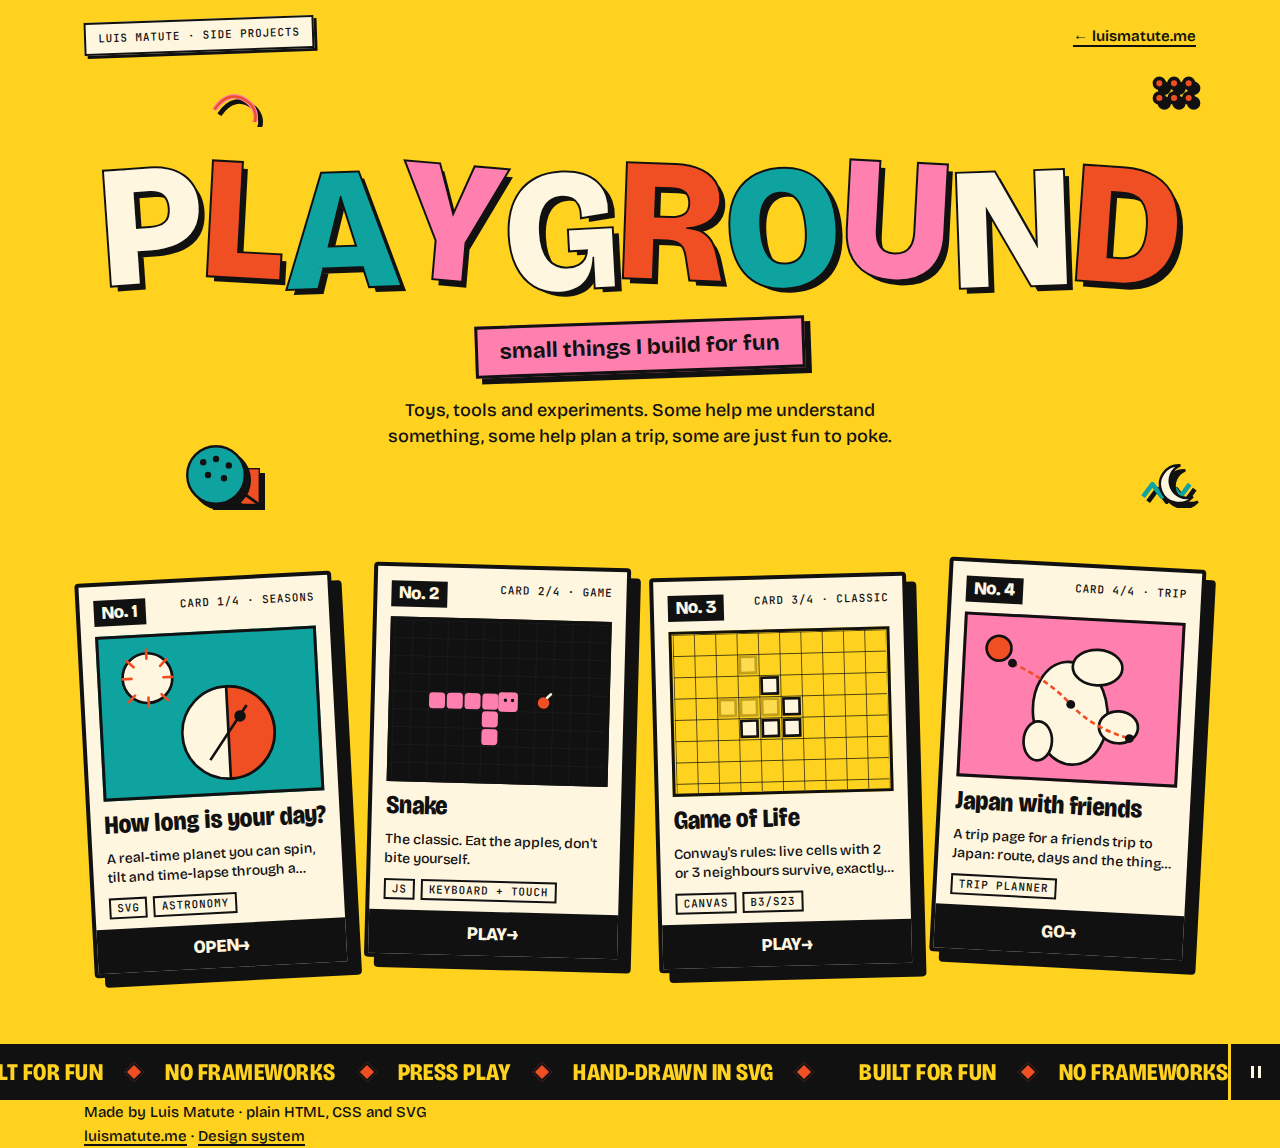
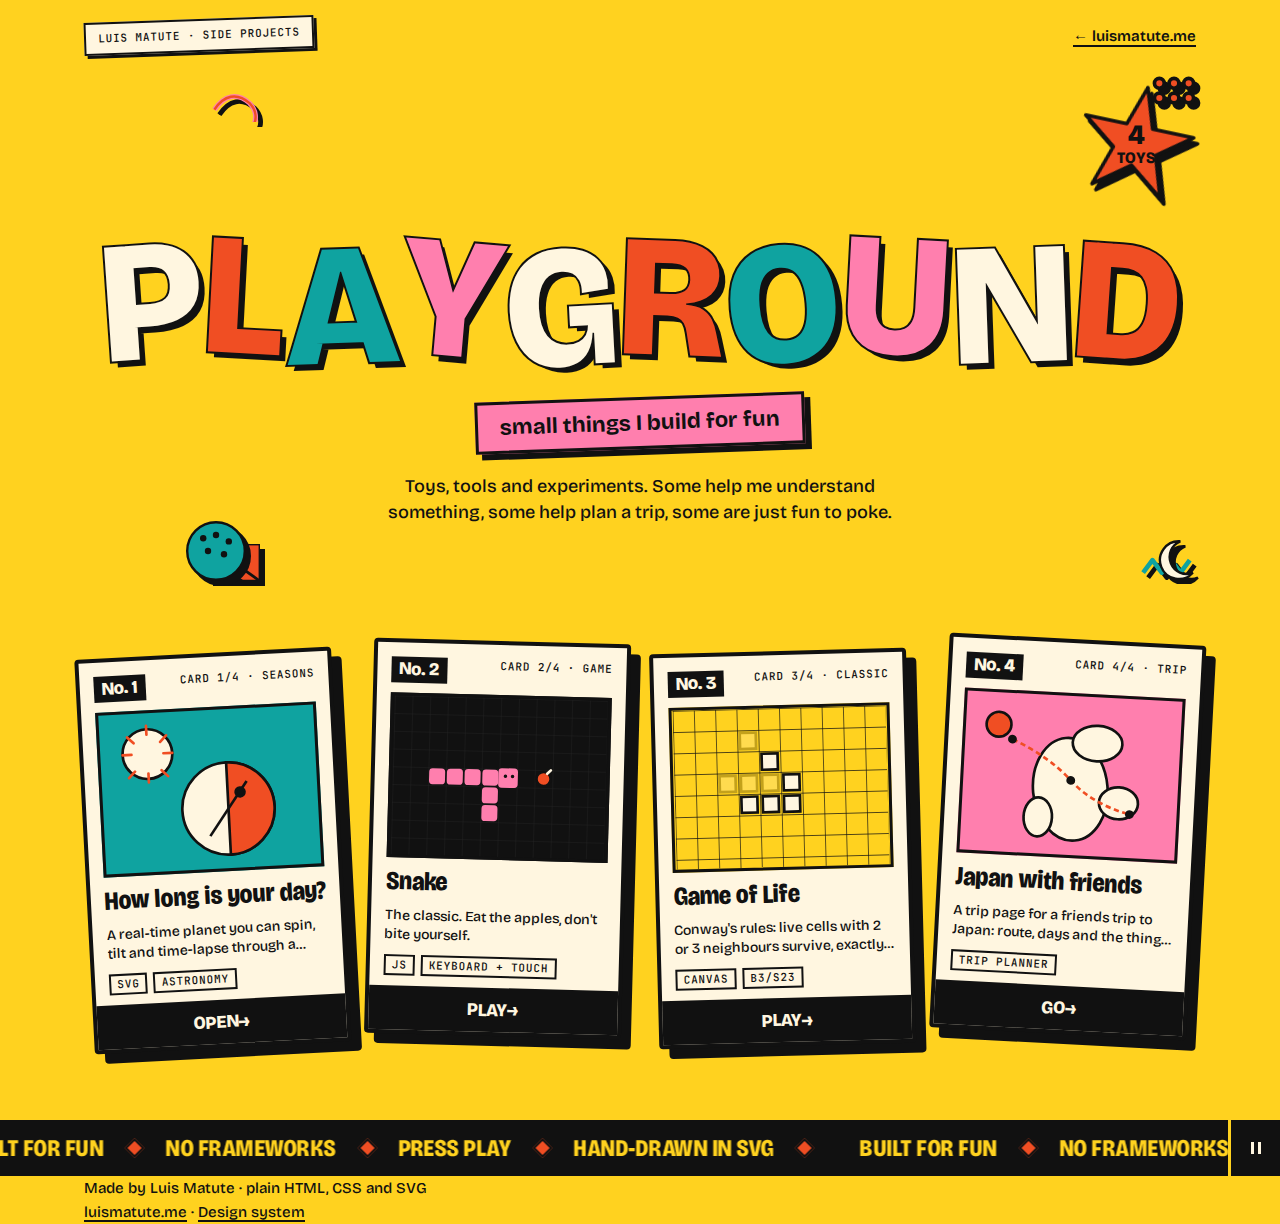
fix(playground): CSS-only starburst badge and badge QA asserts

Changed region(s): [[0.0, 0.3659, 1.0, 1.0], [0.0625, 0.0305, 0.9375, 0.4268], [0.0625, 0.0, 0.25, 0.122]]

diff --git a/playground/index.html b/playground/index.html
@@ -46,19 +46,22 @@ body.ready .title span:nth-child(1){transform:rotate(-4deg) translateY(0)}body.r
 .ribbon{display:inline-block;background:var(--pink);border:var(--line) solid var(--ink);box-shadow:var(--shadow);transform:rotate(-2deg);padding:10px 22px;font:700 22px/1.2 var(--text)}
 .hero-narrow{position:relative;z-index:2;max-width:720px;margin:0 auto;padding-inline:8px}
 .lede{max-width:46ch;margin:24px auto 0;font-size:18px}
-@media(min-width:641px){.hero{padding-top:80px}}
-@media(max-width:640px){.hero{padding-top:56px;padding-bottom:100px}.lede{padding-inline:12px;max-width:38ch}}
-.ribbon-row{position:relative;display:inline-flex;align-items:center;justify-content:center;gap:4px;max-width:100%;margin-top:20px;flex-wrap:nowrap}
+@media(min-width:641px){.hero{padding-top:132px}}
+@media(min-width:641px) and (max-width:1279px){.hero{padding-top:142px}}
+@media(min-width:1280px){.hero{padding-top:156px}}
+@media(max-width:640px){.hero{padding-top:48px;padding-bottom:100px}.lede{padding-inline:12px;max-width:38ch}}
+.ribbon-row{display:inline-flex;align-items:center;justify-content:center;gap:0;max-width:calc(100% - 16px);margin-top:20px;flex-wrap:nowrap}
 .ribbon{margin:0;flex:0 1 auto}
-@media(max-width:640px){.ribbon-row{align-items:flex-start}.badge-star{position:relative;top:auto!important;left:auto!important;right:auto!important;transform:rotate(12deg);margin:-6px -10px 0 0;flex-shrink:0}}
-@media(min-width:641px){.ribbon-row{display:block;position:static}}
-.badge-star{position:absolute;width:100px;height:100px;transform:rotate(12deg);filter:drop-shadow(5px 5px 0 #111);z-index:4;pointer-events:none}
+.badge-star{position:relative;transform:rotate(12deg);filter:drop-shadow(5px 5px 0 #111);z-index:4;pointer-events:none;flex-shrink:0}
 .badge-star svg{display:block;width:100%;height:100%}
 .badge-star-label{position:absolute;inset:0;display:flex;flex-direction:column;align-items:center;justify-content:center;font-family:var(--display);font-weight:800;color:var(--ink);line-height:1.05;text-align:center;transform:rotate(-12deg)}
-.badge-star-label span:first-child{font-size:26px}
-.badge-star-label span:last-child{font-size:15px;letter-spacing:.04em}
-.badge-star-label{-webkit-text-stroke:0}
-@media(max-width:640px){.badge-star{width:64px;height:64px}.badge-star-label span:first-child{font-size:20px}.badge-star-label span:last-child{font-size:11px;letter-spacing:.06em}}
+.badge-star-label span:first-child{font-size:24px}
+.badge-star-label span:last-child{font-size:14px;letter-spacing:.04em}
+.badge-star--hero{display:none;position:absolute;top:12px;right:max(var(--gutter),calc(50% - 600px));width:96px;height:96px;filter:none}
+.badge-star--hero svg{filter:drop-shadow(5px 5px 0 #111)}
+@media(min-width:641px){.badge-star--hero{display:block}.badge-star--ribbon{display:none!important}}
+@media(min-width:1280px){.badge-star--hero{width:120px;height:120px}.badge-star--hero .badge-star-label span:first-child{font-size:28px}.badge-star--hero .badge-star-label span:last-child{font-size:16px}}
+@media(max-width:640px){.badge-star--ribbon{display:block;position:relative;width:72px;height:72px;margin-left:-24px;margin-top:-2px}.badge-star--ribbon .badge-star-label span:first-child{font-size:22px}.badge-star--ribbon .badge-star-label span:last-child{font-size:12px;letter-spacing:.06em}.ribbon{font-size:clamp(15px,4.1vw,18px);padding:8px 32px 8px 14px}}
 .stickers{pointer-events:none;position:absolute;inset:0;z-index:1;overflow:visible}
 .stk{position:absolute;filter:drop-shadow(5px 5px 0 #111)}
 .stk-sq{left:max(4px,var(--gutter));top:12px;width:64px}
@@ -160,9 +163,10 @@ body:not(.ready) .title span,body:not(.ready) .toy-card{opacity:1}
 <svg class="stk stk-polka" viewBox="0 0 80 80" aria-hidden="true"><circle cx="40" cy="40" r="36" fill="var(--teal)" stroke="var(--ink)" stroke-width="3"/><g fill="var(--ink)"><circle cx="24" cy="24" r="4"/><circle cx="40" cy="20" r="4"/><circle cx="56" cy="28" r="4"/><circle cx="30" cy="40" r="4"/><circle cx="50" cy="44" r="4"/></g></svg>
 <svg class="stk stk-moon" viewBox="0 0 56 56" aria-hidden="true"><path d="M36 8a24 24 0 1 0 16 40A20 20 0 0 1 36 8z" fill="var(--cream)" stroke="var(--ink)" stroke-width="3"/></svg>
 </div>
+<div class="badge-star badge-star--hero" aria-hidden="true"><svg viewBox="0 0 100 100" aria-hidden="true"><polygon points="50,2 61,35 96,35 68,56 79,90 50,68 21,90 32,56 4,35 39,35" fill="#f04e23" stroke="#111" stroke-width="3" stroke-linejoin="round"/></svg><div class="badge-star-label"><span>4</span><span>TOYS</span></div></div>
 <h1 class="title" aria-label="Playground"><span class="c0" aria-hidden="true">P</span><span class="c1" aria-hidden="true">L</span><span class="c2" aria-hidden="true">A</span><span class="c3" aria-hidden="true">Y</span><span class="title-break" aria-hidden="true"></span><span class="c0" aria-hidden="true">G</span><span class="c1" aria-hidden="true">R</span><span class="c2" aria-hidden="true">O</span><span class="c3" aria-hidden="true">U</span><span class="c0" aria-hidden="true">N</span><span class="c1" aria-hidden="true">D</span></h1>
 <div class="hero-narrow">
-<div class="ribbon-row"><p class="ribbon">small things I build for fun</p><div class="badge-star" aria-hidden="true"><svg viewBox="0 0 100 100" aria-hidden="true"><polygon points="50,2 61,35 96,35 68,56 79,90 50,68 21,90 32,56 4,35 39,35" fill="#f04e23" stroke="#111" stroke-width="3" stroke-linejoin="round"/></svg><div class="badge-star-label"><span>4</span><span>TOYS</span></div></div></div>
+<div class="ribbon-row"><p class="ribbon">small things I build for fun</p><div class="badge-star badge-star--ribbon" aria-hidden="true"><svg viewBox="0 0 100 100" aria-hidden="true"><polygon points="50,2 61,35 96,35 68,56 79,90 50,68 21,90 32,56 4,35 39,35" fill="#f04e23" stroke="#111" stroke-width="3" stroke-linejoin="round"/></svg><div class="badge-star-label"><span>4</span><span>TOYS</span></div></div></div>
 <p class="lede">Toys, tools and experiments. Some help me understand something, some help plan a trip, some are just fun to poke.</p>
 </div>
 </header>
@@ -224,10 +228,8 @@ var mq=document.getElementById('marquee'),btn=document.getElementById('marqueeBt
 btn.addEventListener('click',function(){var p=mq.classList.toggle('is-paused');btn.setAttribute('aria-pressed',p?'true':'false');btn.setAttribute('aria-label',p?'Play marquee':'Pause marquee');btn.innerHTML=p?'<svg width="14" height="14" viewBox="0 0 14 14" aria-hidden="true"><polygon points="3,1 12,7 3,13" fill="var(--cream)"/></svg>':'<svg width="14" height="14" viewBox="0 0 14 14" aria-hidden="true"><rect x="2" y="1" width="3" height="12" fill="var(--cream)"/><rect x="9" y="1" width="3" height="12" fill="var(--cream)"/></svg>'});
 var track=document.querySelector('.marquee-track');
 if(track&&!window.matchMedia('(prefers-reduced-motion: reduce)').matches){var half=track.scrollWidth/2;track.style.animationDuration=(half/40)+'s'}
-var badge=document.querySelector('.badge-star'),ribbon=document.querySelector('.ribbon'),hero=document.querySelector('.hero');
-function syncBadge(){if(!badge||!hero||window.matchMedia('(max-width:640px)').matches){badge.style.removeProperty('top');badge.style.removeProperty('left');return}var title=document.querySelector('.title'),topbar=document.querySelector('.topbar');if(!title)return;function hit(a,b){return!(a.right<=b.left||a.left>=b.right||a.bottom<=b.top||a.top>=b.bottom)}var letters=[].slice.call(document.querySelectorAll('.title span:not(.title-break)')),hb=hero.getBoundingClientRect(),size=window.matchMedia('(min-width:760px)').matches?88:72;badge.style.width=badge.style.height=size+'px';badge.style.position='absolute';var minLt=Math.min.apply(null,letters.map(function(el){return el.getBoundingClientRect().top})),maxRt=Math.max.apply(null,letters.map(function(el){return el.getBoundingClientRect().right})),top=minLt-hb.top-size-20,left=maxRt-hb.left+22;badge.style.right='auto';for(var i=0;i<24;i++){badge.style.top=Math.max(8,top)+'px';badge.style.left=Math.min(left,hb.width-size-4)+'px';var bad=badge.getBoundingClientRect(),coll=false;letters.forEach(function(el){if(hit(bad,el.getBoundingClientRect()))coll=true});if(topbar&&hit(bad,topbar.getBoundingClientRect()))coll=true;if(!coll)break;top-=12;left+=6}}
 function titleWrap(){var t=document.querySelector('.title'),br=document.querySelector('.title-break');if(!t||!br)return;if(window.matchMedia('(min-width:900px)').matches){br.style.display='none';t.style.flexWrap='nowrap';return}br.style.display='none';t.style.flexWrap='nowrap';if(t.scrollWidth>t.clientWidth+2){br.style.display='block';t.style.flexWrap='wrap'}}
-syncBadge();titleWrap();window.addEventListener('resize',function(){syncBadge();titleWrap()});if(document.fonts&&document.fonts.ready)document.fonts.ready.then(function(){syncBadge();titleWrap()});
+titleWrap();window.addEventListener('resize',titleWrap);if(document.fonts&&document.fonts.ready)document.fonts.ready.then(titleWrap);
 })();
 </script>
 </body>
